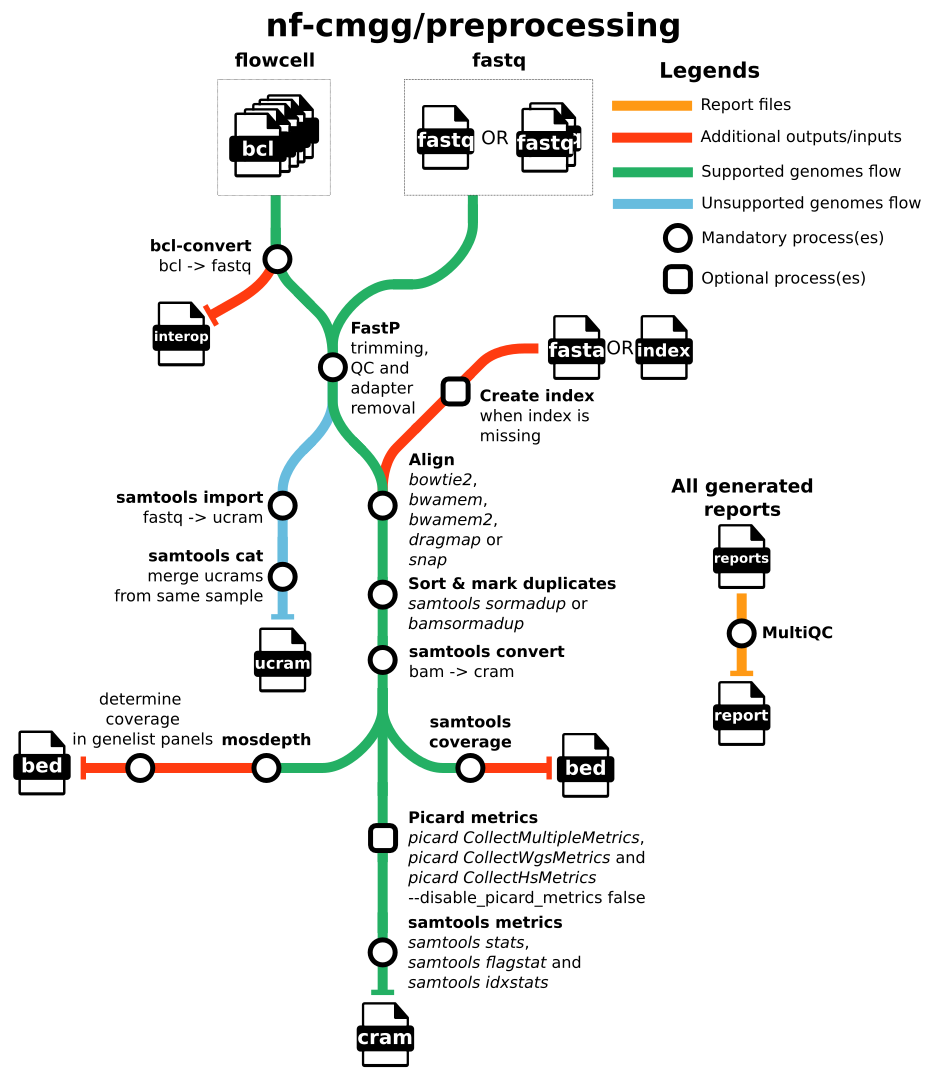
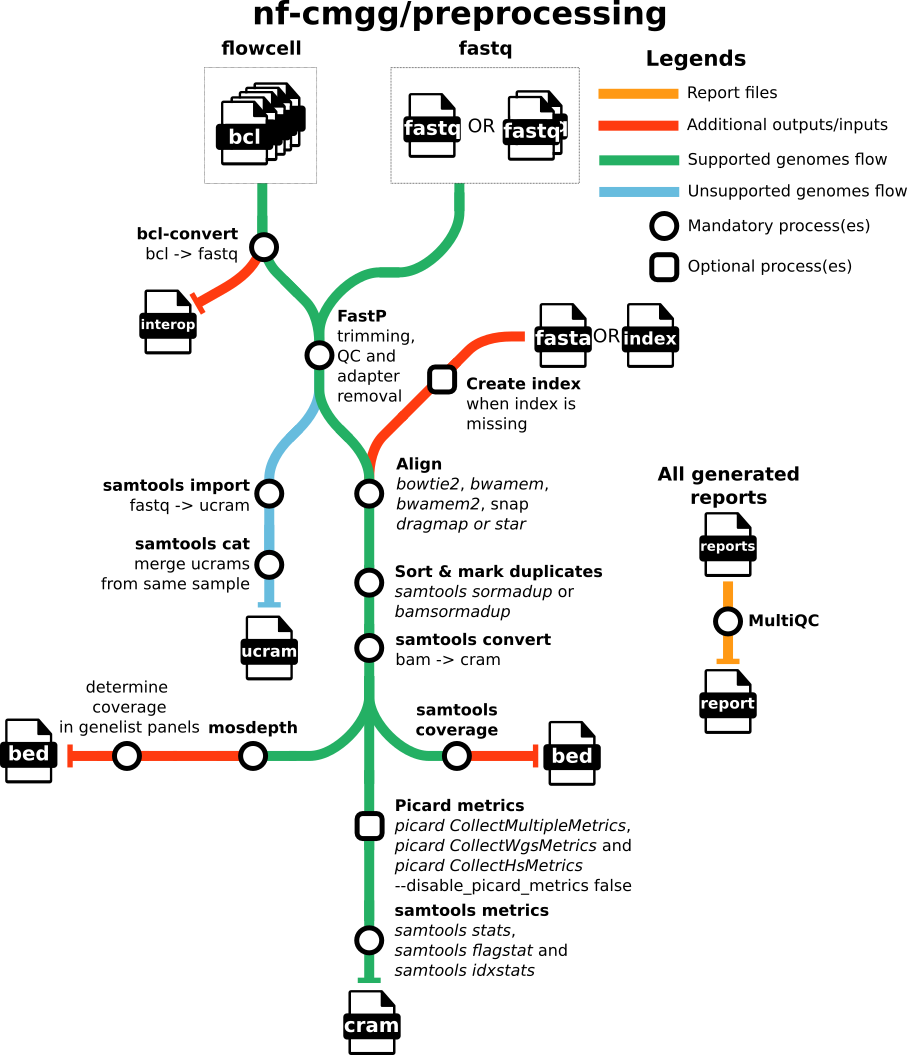
small doc updates

Changed region(s): [[0.0, 0.0, 1.0, 1.0], [0.71, 0.4246, 0.8953, 0.6976]]

diff --git a/docs/README.md b/docs/README.md
@@ -8,4 +8,4 @@ The nf-cmgg/preprocessing documentation is split into the following pages:
   - An overview of the different results produced by the pipeline and how to interpret them.
 - [Parameters](parameters.md)
   - An overview of all parameters that can be used when running the pipeline.
-  <!-- Update the parameters by running: nf-core schema docs --format markdown --output docs/parameters.md --force -->
+  <!-- Update the parameters by running: nf-core pipelines schema docs --format markdown --output docs/parameters.md --force -->
